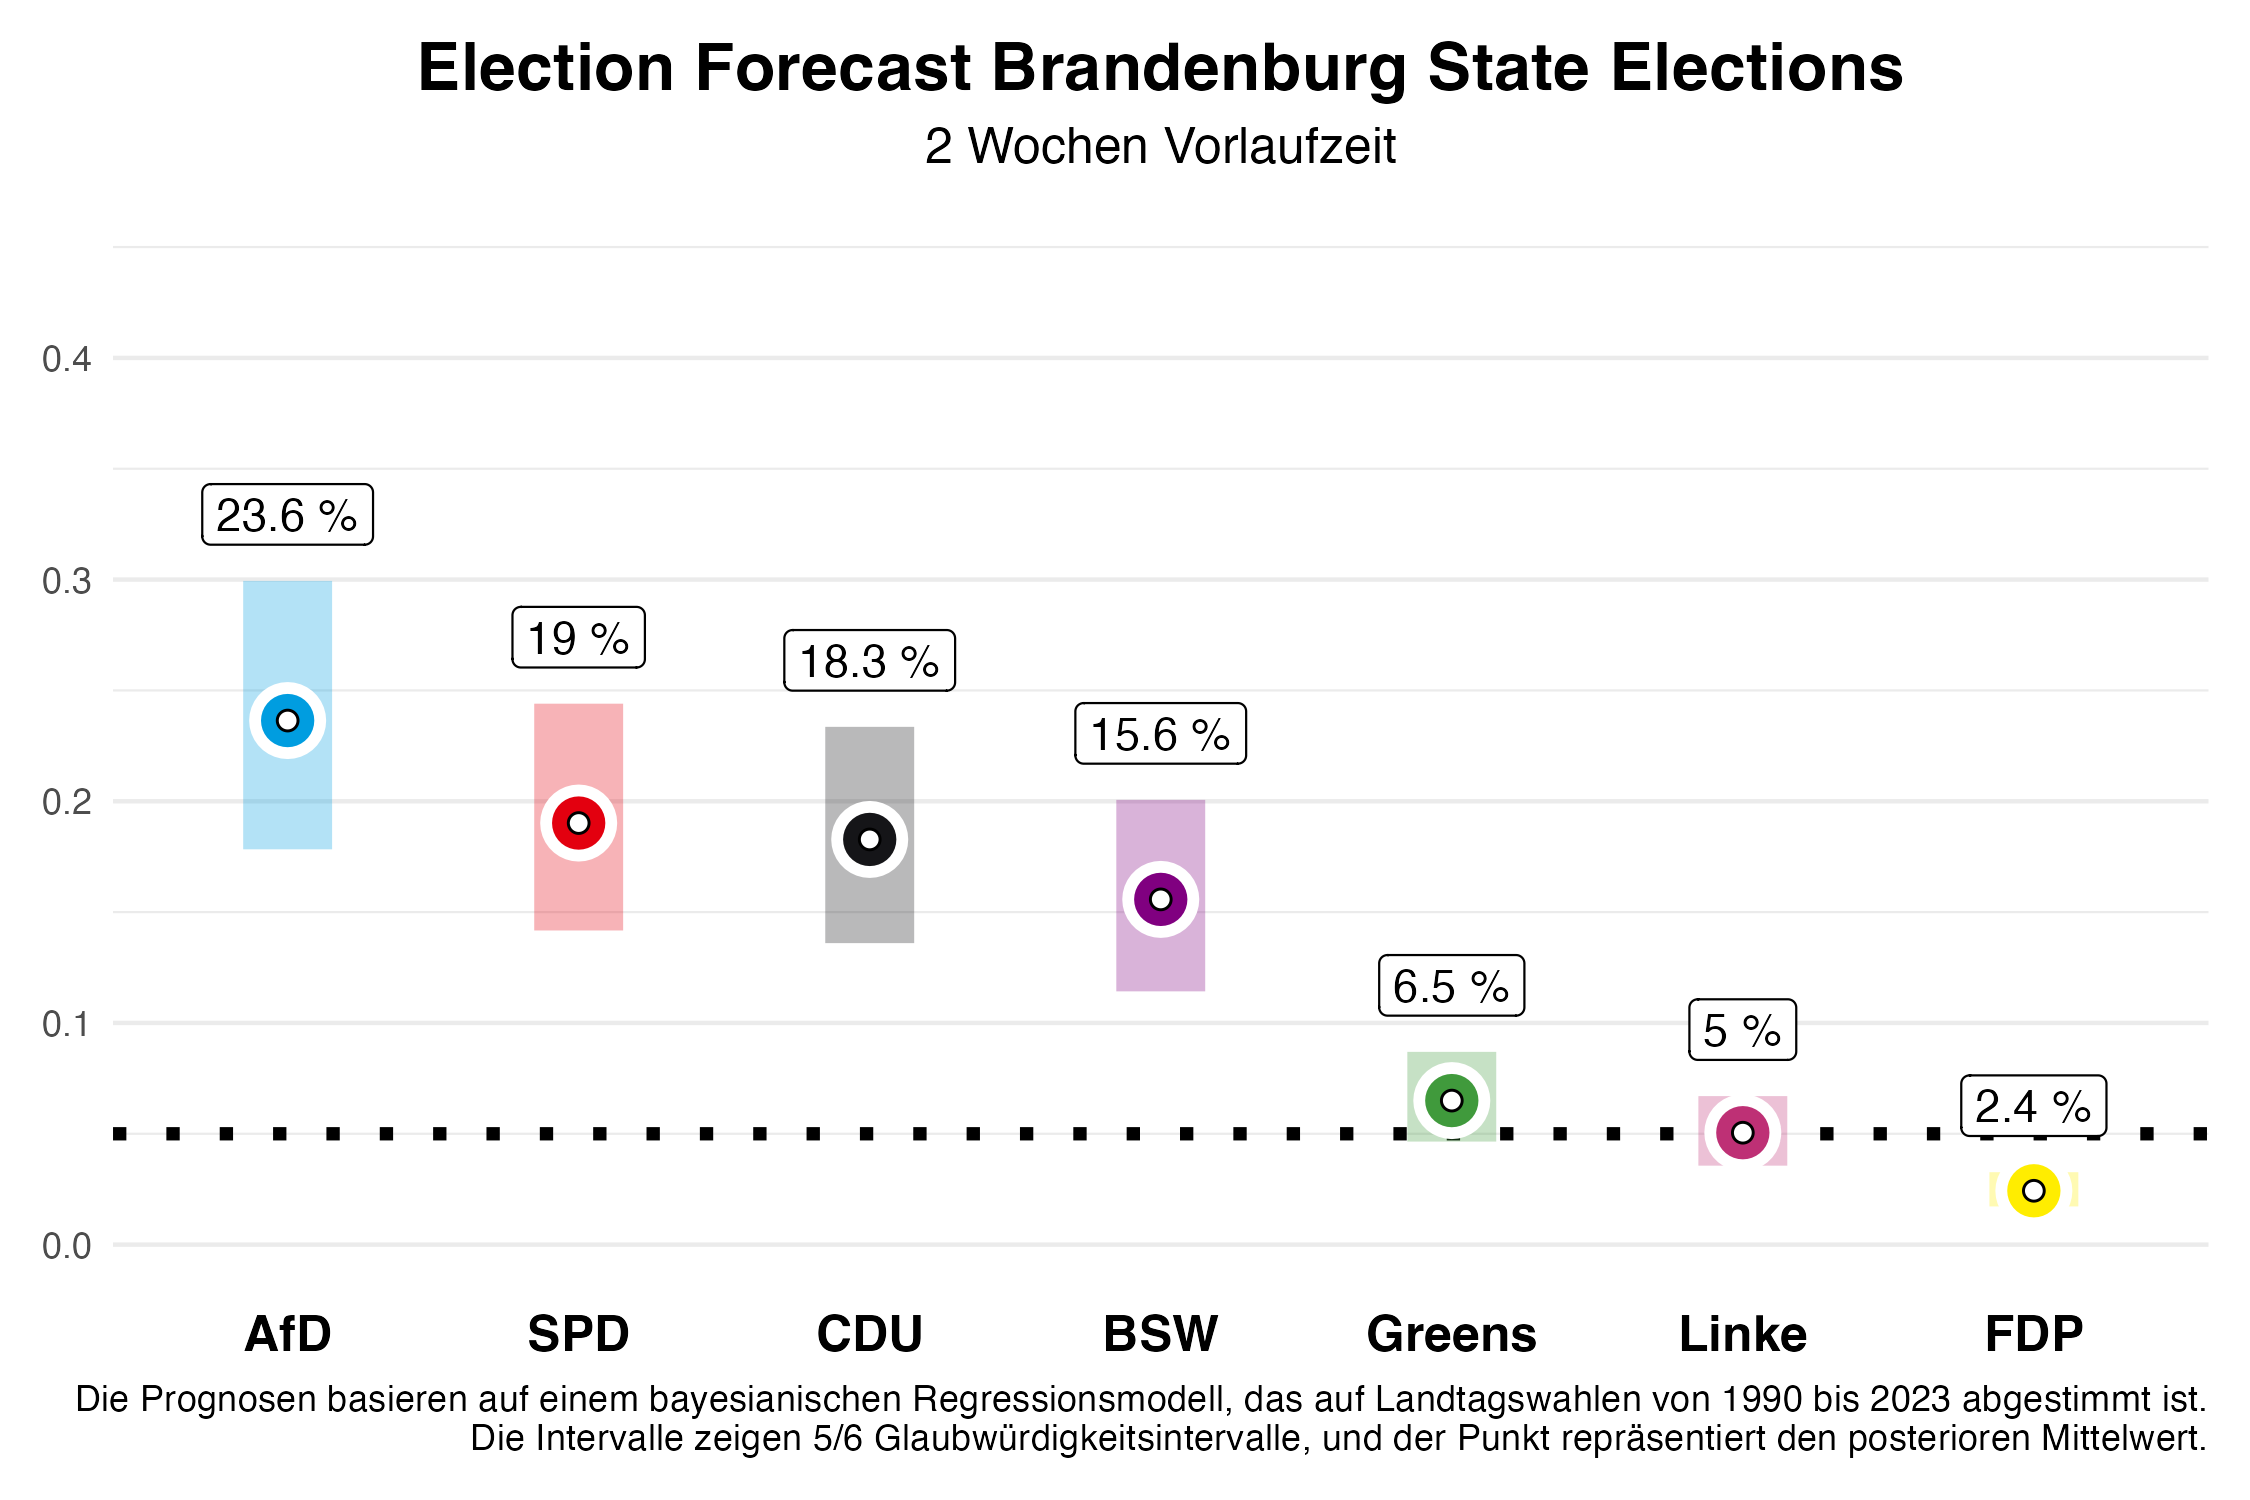
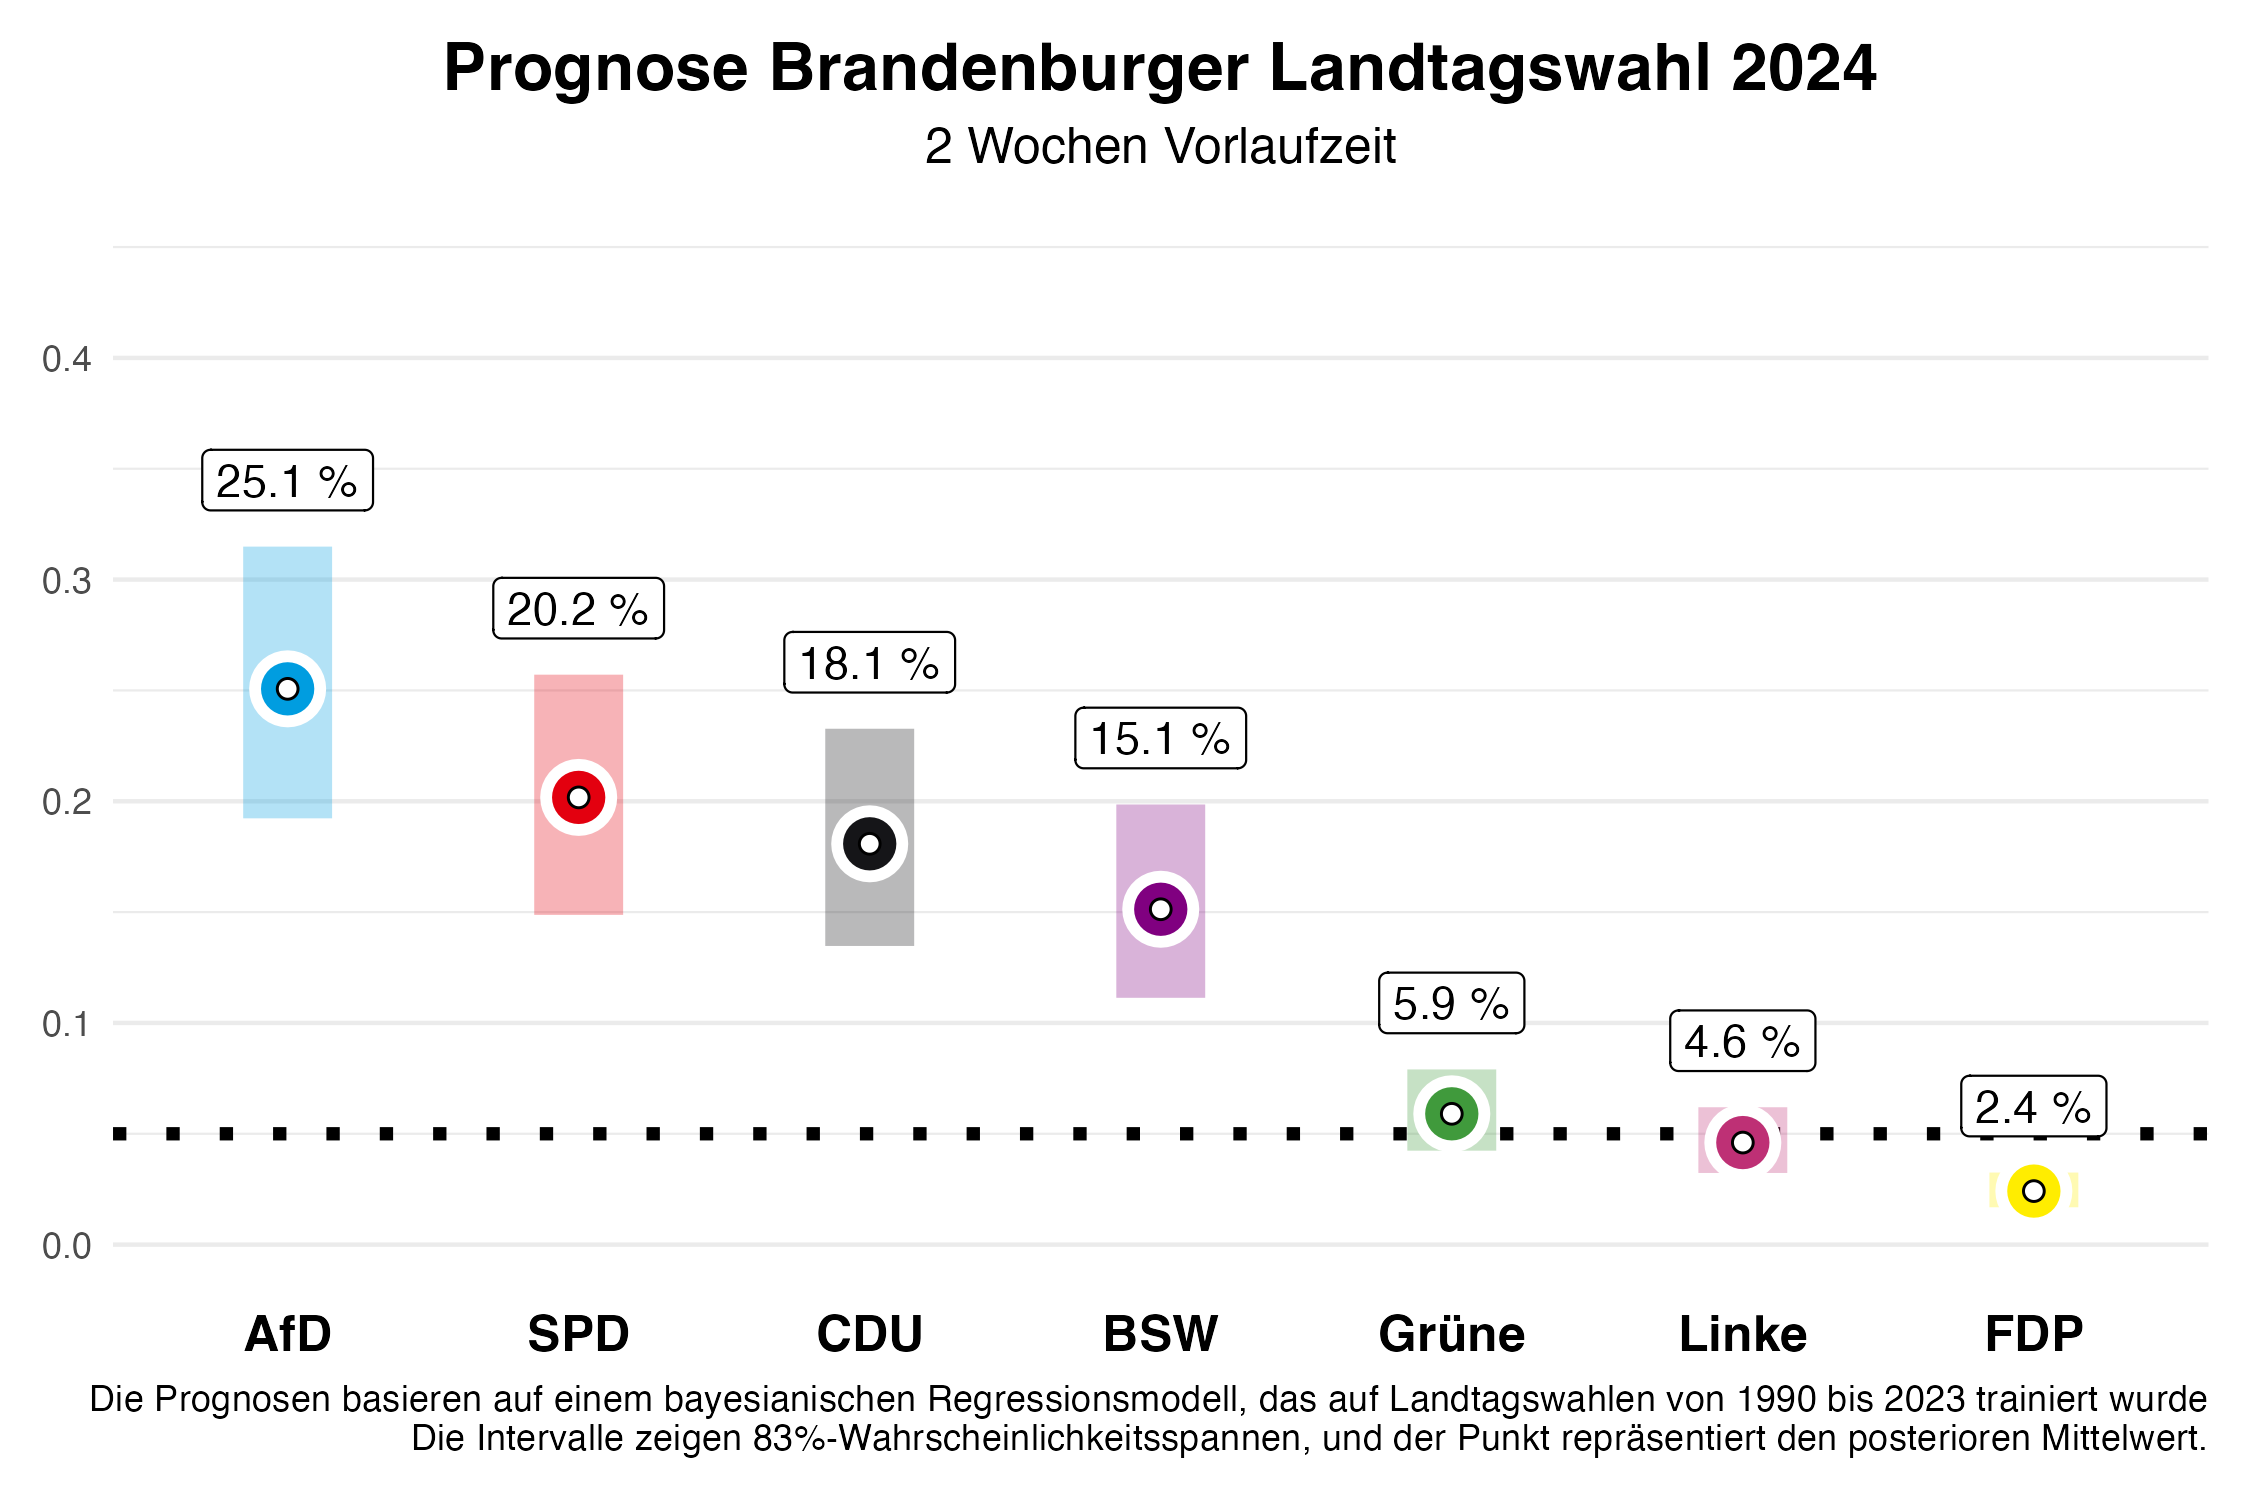
Updated Brandenburg forecast

diff --git a/content/de/posts/brandenburg_election_forecast/index.md b/content/de/posts/brandenburg_election_forecast/index.md
@@ -1,6 +1,6 @@
 ---
 title: "Vorhersage der Landtagswahl in Brandenburg"
-date: 2024-09-05T12:00:34+02:00
+date: 2024-09-06T10:00:00+02:00
 draft: false
 ---
 
@@ -12,11 +12,11 @@ In zwei Wochen findet die Landtagswahl in Brandenburg statt. Wir von Zweitstimme
 
 ![Wahlprognose Brandenburg](./fig/fig_fcst_bb_2weekslead_de.png)
 
-In Brandenburg zeigt unsere aktuelle Vorhersage ein **enges Rennen** zwischen vier Parteien; AfD, SPD, BSW und CDU liegen alle um die 20%. Für die **SPD**, die bei der letzten Wahl die stärkste Partei wurde, erwarten wir **19,9%** der Stimmen, wobei unsere Vorhersage zwei Wochen vor der Wahl noch eine 5/6-Wahrscheinlichkeit zulässt, dass dieser Wert im Glaubwürdigkeitsintervall zwischen **14,8%** und **25,4%** liegen wird. **Die AfD** dürfte sich hingegen deutlich verbessern und wird unseren Erwartungen nach mit **22,8%** knapp vor der SPD liegen. Hier reicht das Intervall allerdings ebenfalls noch von **17,1%** bis **28,9%**.
+In Brandenburg zeigt unsere aktuelle Vorhersage ein **enges Rennen** zwischen vier Parteien; AfD, SPD, BSW und CDU liegen alle um die 20%. Für die **SPD**, die bei der letzten Wahl die stärkste Partei wurde, erwarten wir **21,0%** der Stimmen, wobei unsere Vorhersage zwei Wochen vor der Wahl noch eine 5/6-Wahrscheinlichkeit zulässt, dass dieser Wert im Intervall zwischen **15,8%** und **26,6%** liegen wird (in bayesscher Sprache: 5/6-Kredibilitätsintervall). **Die AfD** dürfte sich hingegen deutlich verbessern und wird unseren Erwartungen nach mit **24,3%** knapp vor der SPD liegen. Hier reicht das Intervall allerdings ebenfalls noch von **18,5%** bis **30,5%**.
 
-Das neu gegründete Bündnis Sahra Wagenknecht (BSW) könnte in Brandenburg mit **19,0%** ein starkes Ergebnis erzielen, mit einem 5/6-Glaubwürdigkeitsintervall von **13,9%** bis **24,6%**. Die **CDU** wird sich mit **17,6%** zufrieden geben müssen (Intervall: **13,1%** bis **22,6%**), ebenso wie die **Grünen** mit **6,2%** (Intervall: **4,4%** bis **8,1%**), die 2019 mit **10,8%** relativ gut abschnitten. Die **Linke**, die zuletzt **10,7%** der Stimmen erzielte, könnte dieses Mal nur **4,8%** erreichen (Intervall: **3,4%** bis **6,4%**). Die **FDP**, die schon 2019 den Einzug in den Landtag mit **2,4%** knapp verfehlte, wird voraussichtlich bei **2,4%** (Intervall: **1,7%** bis **3,2%**) landen und **wahrscheinlich** erneut scheitern. Die restlichen Stimmenanteile entfallen auf „sonstige” Parteien, die in den Abbildungen nicht dargestellt sind.
+Das neu gegründete Bündnis Sahra Wagenknecht (BSW) könnte in Brandenburg mit **18,6%** ein starkes Ergebnis erzielen, mit einem 5/6-Kredibilitätsintervall von **13,6%** bis **24,0%**. Die **CDU** wird sich mit **17,4%** zufrieden geben müssen (Intervall: **13,0%** bis **22,4%**), ebenso wie die **Grünen** mit **5,6%** (Intervall: **4,0%** bis **7,5%**), die 2019 mit **10,8%** relativ gut abschnitten. Die **Linke**, die zuletzt **10,7%** der Stimmen erzielte, könnte dieses Mal nur **4,4%** erreichen (Intervall: **3,1%** bis **5,9%**). Die **FDP**, die schon 2019 den Einzug in den Landtag mit **2,4%** knapp verfehlte, wird voraussichtlich bei **2,4%** (Intervall: **1,7%** bis **3,3%**) landen und **wahrscheinlich** erneut scheitern. Die restlichen Stimmenanteile entfallen auf „sonstige” Parteien, die in den Abbildungen nicht dargestellt sind.
 
-Was bedeutet das für die zukünftige politische Landschaft in Brandenburg? Unsere Vorhersage erlaubt es uns, Wahrscheinlichkeiten für bestimmte Ereignisse zu berechnen. Die Wahrscheinlichkeit, dass die SPD erneut die stärkste Kraft wird, beziffert unsere Vorhersage mit **21,6%**, wobei es schwieriger wird, eine Mehrheit ohne die AfD zu bilden, die mit einer Wahrscheinlichkeit von **52,8%** stärkste Kraft wird. Die Wahrscheinlichkeit, dass es eine Mehrheit für die amtierende Koalition aus SPD, CDU und Grünen gibt, liegt bei **39,1%**. Ein Grund dafür ist, dass die Grünen eine Wahrscheinlichkeit von **81%** haben, den Einzug in den Landtag zu schaffen. Für die **Linke** sind es **40,5%**. Eine Regierungsmehrheit aller Parteien ohne AfD und BSW gibt es zu **64,5%**.
+Was bedeutet das für die zukünftige politische Landschaft in Brandenburg? Unsere Vorhersage erlaubt es uns, Wahrscheinlichkeiten für bestimmte Ereignisse zu berechnen. Die Wahrscheinlichkeit, dass die SPD erneut die stärkste Kraft wird, beziffert unsere Vorhersage mit **24%**, wobei es schwieriger wird, eine Mehrheit ohne die AfD zu bilden, die mit einer Wahrscheinlichkeit von **61%** stärkste Kraft wird. Für die CDU sind es **5%** und für das BSW **10%**. Die Wahrscheinlichkeit, dass es eine Mehrheit für die amtierende Koalition aus SPD, CDU und Grünen gibt, liegt bei **34%**. Ein Grund dafür ist, dass die Grünen eine Wahrscheinlichkeit von **66%** haben, den Einzug in den Landtag zu schaffen. Für die **Linke** sind es nur **25%**. Eine Regierungsmehrheit aller Parteien ohne AfD und BSW gibt es zu **56%**.
 
 
 # Das Vorhersagemodell
@@ -30,5 +30,5 @@ Wie gut funktioniert unser Modell? Wir haben das Modell anhand der Landtagswahle
 
 ![Wahlprognose Thüringen](./fig/fig_fcstpoll_bb_2weekslead_de.png)
 
-In vorherigen Blogposts hatten wir unsere Vorhersagen für die Landtagswahlen in Sachsen und Thüringen am 01.09.2024 veröffentlicht. Unser volles Modell hat dabei auch berücksichtigt, dass das BSW als neue Partei angetreten ist, und eine entsprechende Vorhersage gemacht. Im Vergleich zum Endergebnis hat das dazu geführt, dass der Stimmenanteil des BSW überschätzt wurde. Deswegen präsentieren wir für die Brandenburger Landtagswahl auch Vorhersagen eines Modells, dass nur auf Umfragen basiert und neue Parteien nicht besonders berücksichtigt. Sollte das BSW auch in Brandenburg nicht die Umfragen deutlich übertreffen, wird diese Vorhersage möglicherweise näher am Endergebnis liegen.
+In vorherigen Blogposts hatten wir unsere Vorhersagen für die Landtagswahlen in Sachsen und Thüringen am 01.09.2024 veröffentlicht. Unser volles Modell hat dabei auch berücksichtigt, dass das BSW als neue Partei angetreten ist, und eine entsprechende Vorhersage gemacht. Im Vergleich zum Endergebnis hat das dazu geführt, dass der Stimmenanteil des BSW überschätzt wurde. Deswegen präsentieren wir für die Brandenburger Landtagswahl auch Vorhersagen eines Modells, dass nur auf Informationen aus Umfragen basiert und neue Parteien nicht besonders berücksichtigt. Sollte das BSW auch in Brandenburg nicht die Umfragen deutlich übertreffen, wird diese Vorhersage möglicherweise näher am Endergebnis liegen.
 
